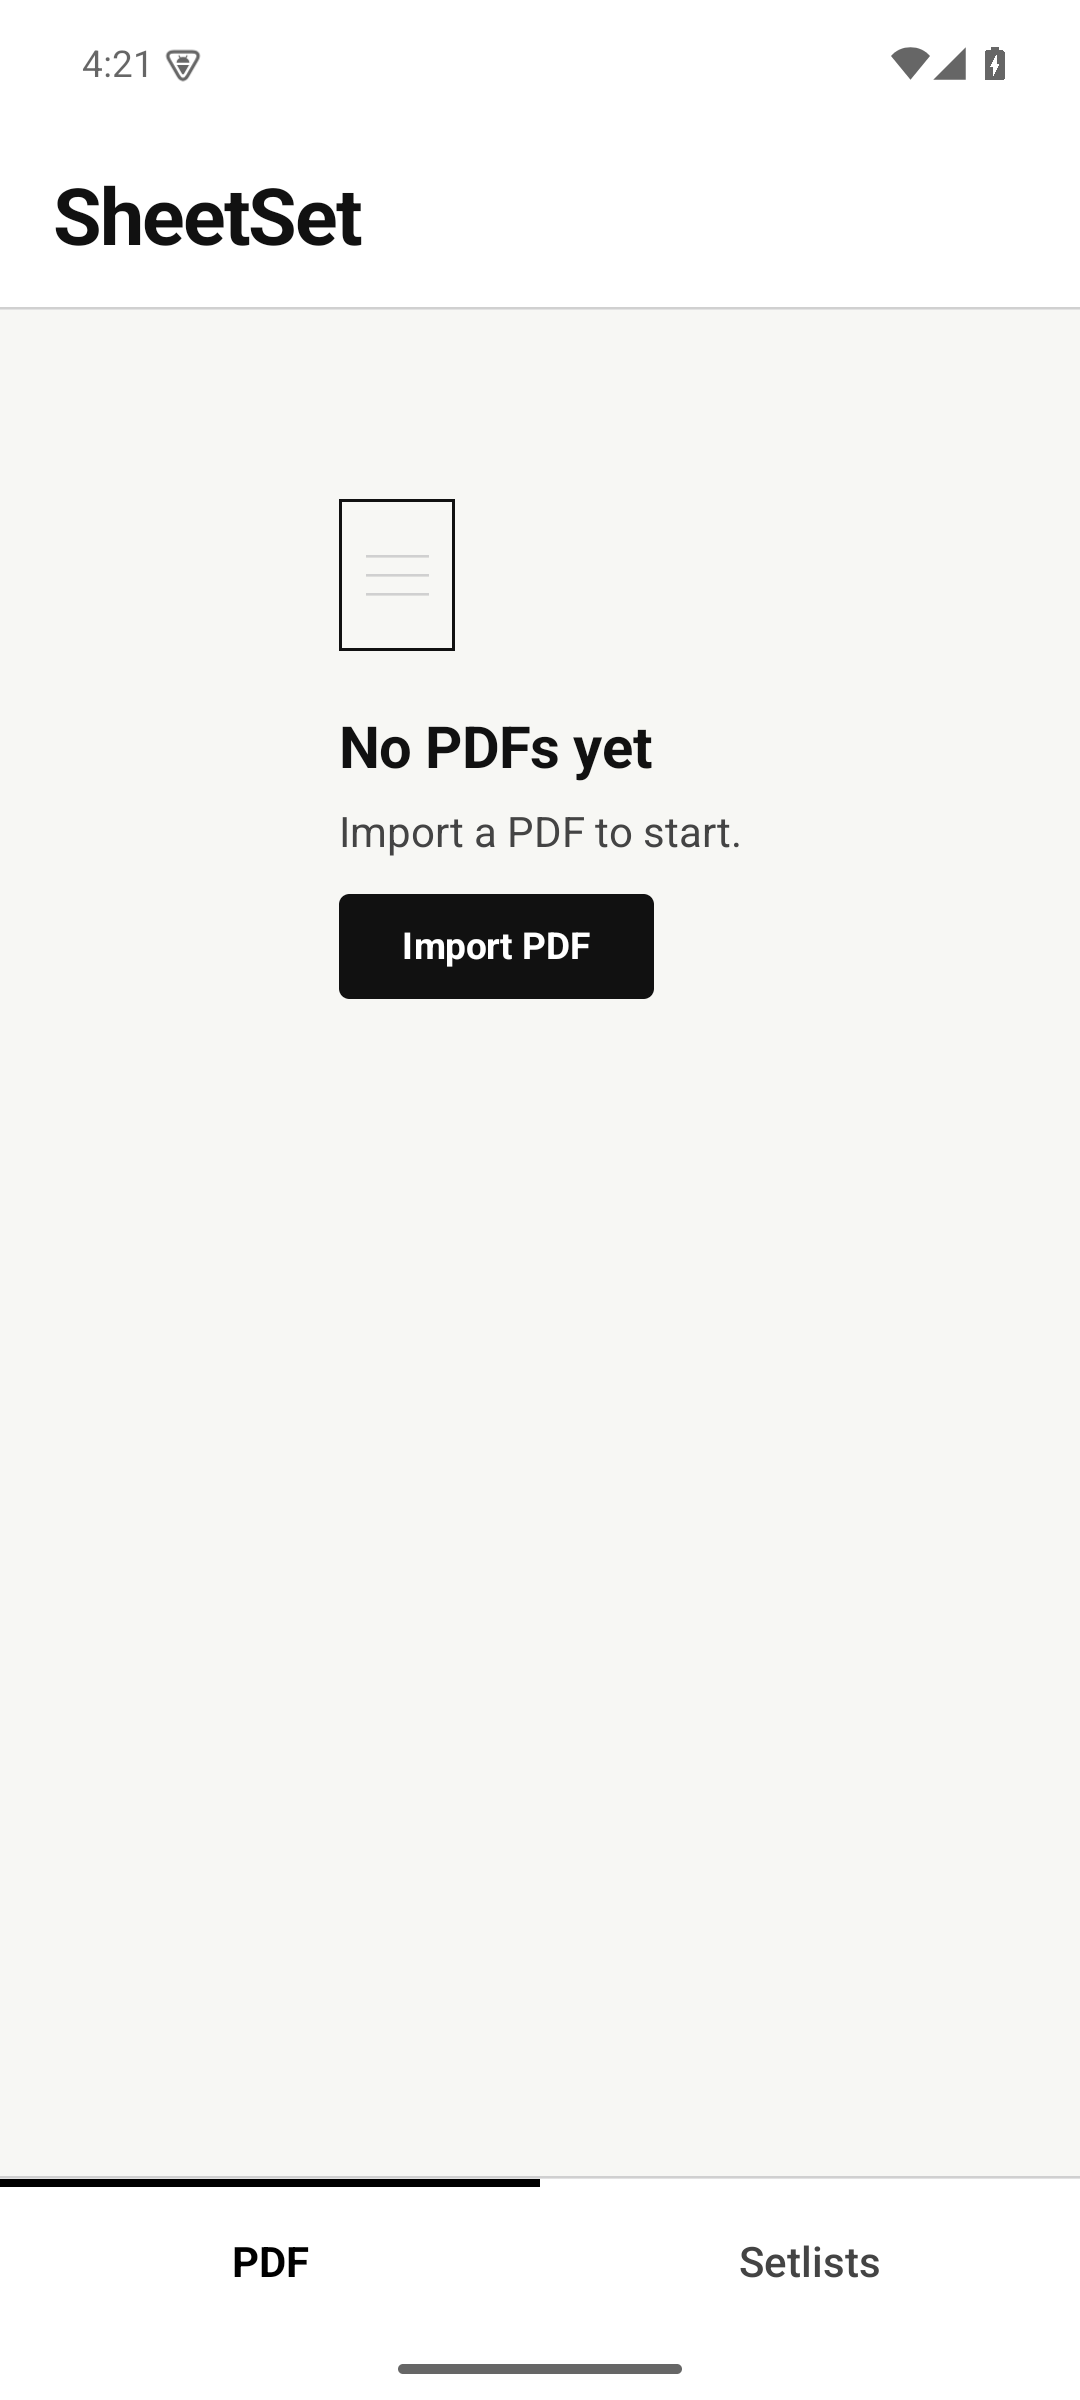
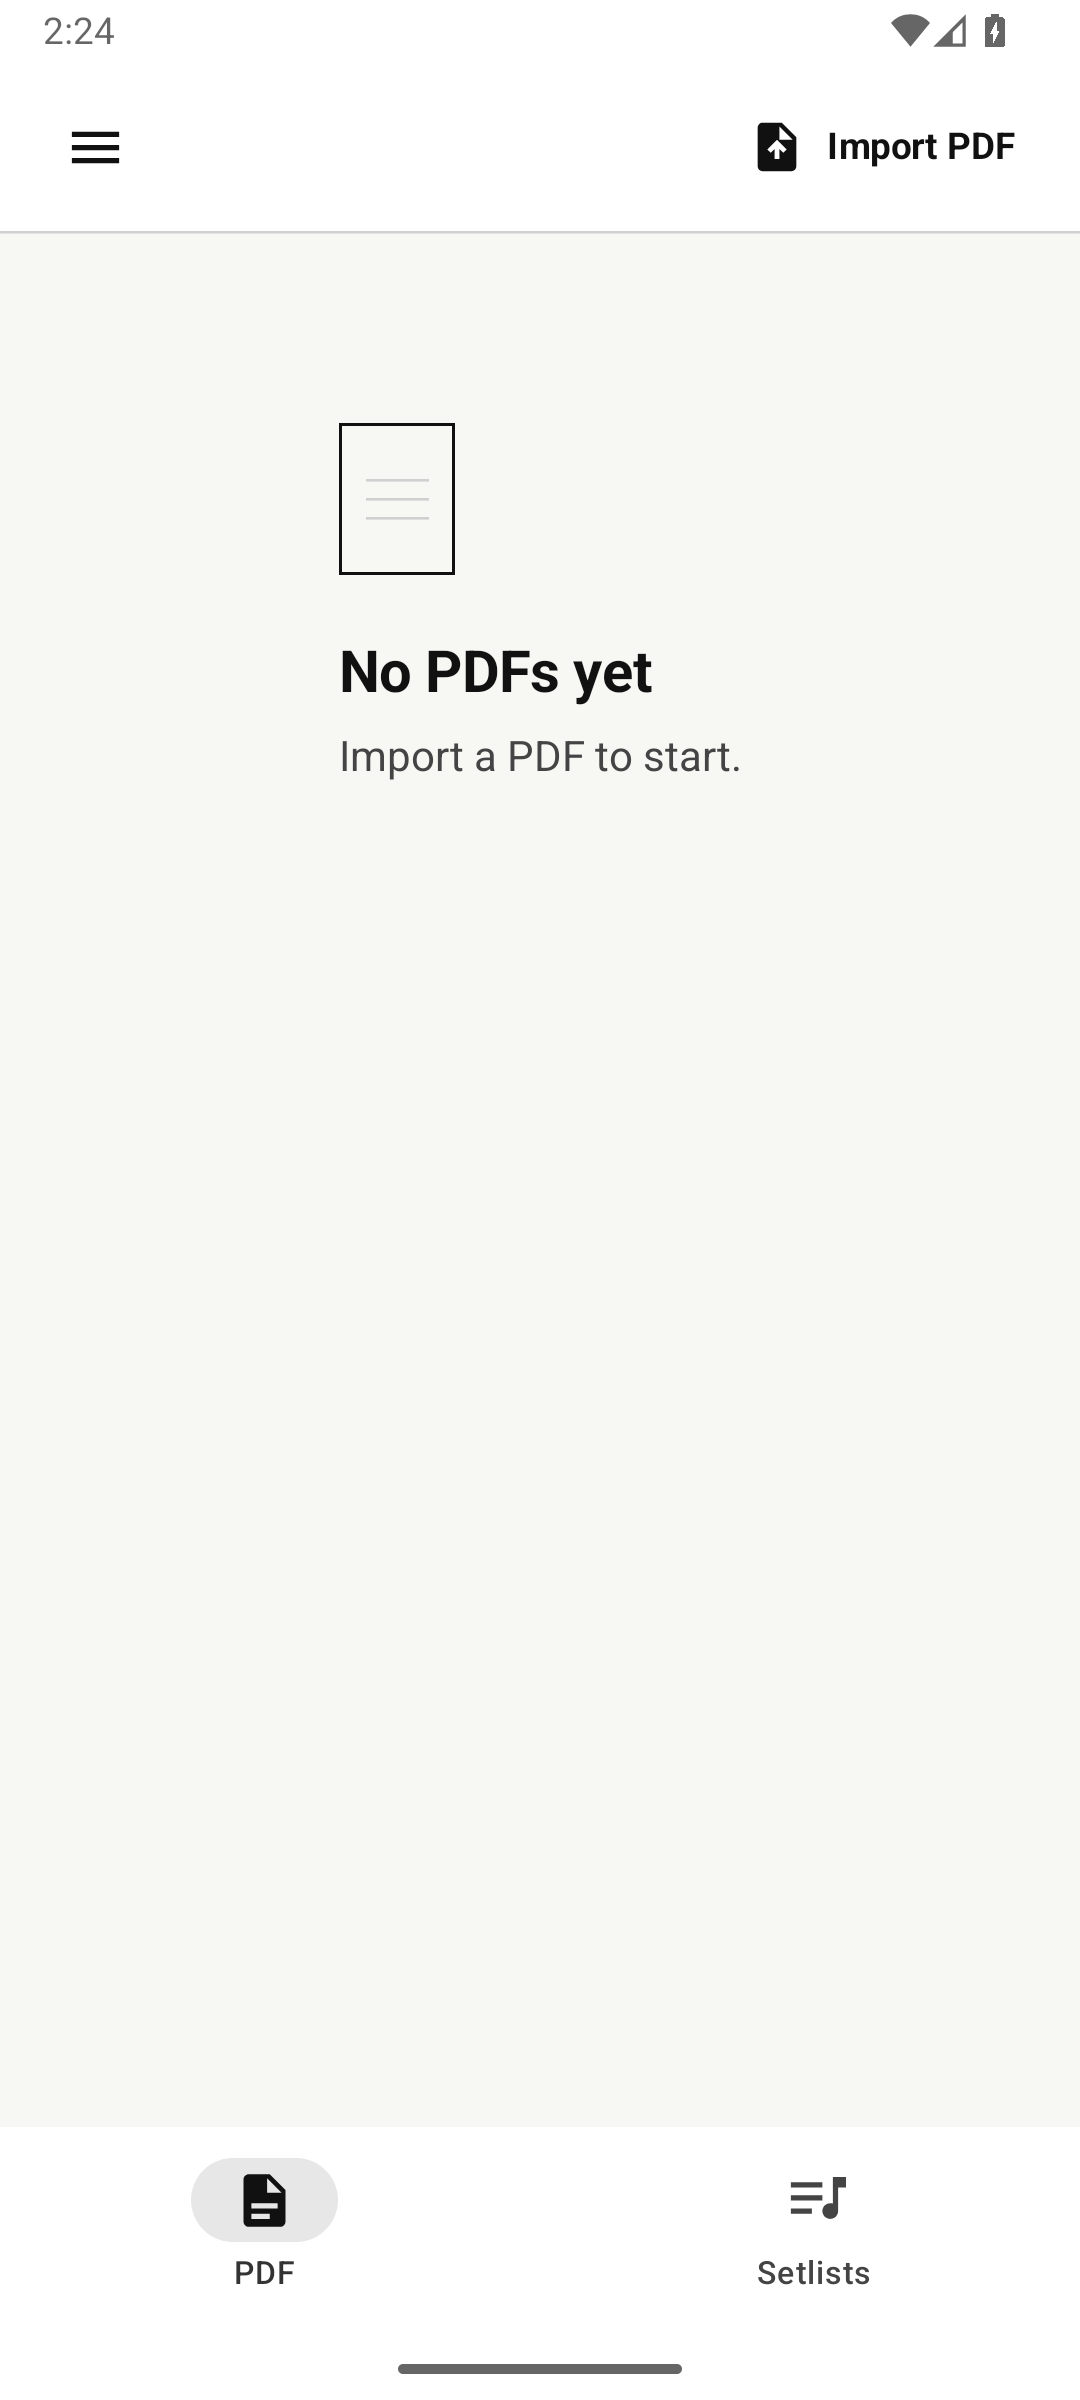
docs: prepare v0.3 preview

diff --git a/site/index.html b/site/index.html
@@ -3,7 +3,7 @@
 <head>
   <meta charset="utf-8">
   <meta name="viewport" content="width=device-width, initial-scale=1">
-  <meta name="description" content="SheetSet is an offline Android PDF organizer for musicians.">
+  <meta name="description" content="SheetSet is an offline Android 13+ PDF organizer and annotation editor for musicians.">
   <title>SheetSet - scores, setlists, annotations</title>
   <link rel="stylesheet" href="styles.css">
 </head>
@@ -27,7 +27,7 @@
           <a class="secondary" href="https://github.com/Majkey25/SheetSet">Browse source</a>
         </div>
       </div>
-      <img class="phone" src="assets/reader.png" alt="SheetSet displaying an annotated PDF page">
+      <img class="phone" src="assets/reader.png" alt="SheetSet PDF editor with pen, yellow highlight, selected rectangle, and scrollable tools">
     </section>
 
     <section id="features" class="features">
@@ -35,18 +35,28 @@
       <dl>
         <div><dt>PDF library</dt><dd>Validated offline copies, search, rename, and safe deletion.</dd></div>
         <div><dt>Unlimited setlists</dt><dd>Order scores once and read straight through the whole set.</dd></div>
-        <div><dt>Annotations</dt><dd>Pen, highlighter, eraser, undo, redo, zoom, taps, and swipes.</dd></div>
+        <div><dt>PDF editor</dt><dd>Colored pen, markup, text, shapes, selection, resize, eraser, undo, redo, and export.</dd></div>
+        <div><dt>Backup and restore</dt><dd>Validated ZIP archives with staging, path checks, and rollback-safe restore.</dd></div>
         <div><dt>Private by design</dt><dd>No permissions, server, account, tracking, or hidden upload.</dd></div>
       </dl>
     </section>
 
     <section class="proof">
-      <img class="phone" src="assets/home.png" alt="SheetSet PDF library empty state">
+      <img class="phone" src="assets/home.png" alt="SheetSet phone library with Menu and Import PDF actions">
       <div>
         <p class="eyebrow">English · Čeština · Slovenčina · Deutsch · Polski</p>
         <h2>A paper-like interface.</h2>
-        <p>White pages, black type, gray structure, two tabs. The original PDF stays untouched. Export creates a separate annotated copy.</p>
+        <p>White pages, black type, gray structure, and color only where annotations need it. The original PDF stays untouched. Export creates a separate annotated copy.</p>
       </div>
+    </section>
+
+    <section class="tablet-proof">
+      <div>
+        <p class="eyebrow">Android 13+ · phone and tablet</p>
+        <h2>Room when you have it.</h2>
+        <p>Compact screens use a scrollable bottom palette. Tablets switch to a navigation rail and expanded setlist panes.</p>
+      </div>
+      <img class="tablet" src="assets/tablet.png" alt="SheetSet tablet library with a left PDF and Setlists navigation rail">
     </section>
   </main>
 

diff --git a/site/styles.css b/site/styles.css
@@ -28,7 +28,7 @@ nav { display: flex; gap: 24px; }
 nav a { font-size: 14px; text-underline-offset: 4px; }
 
 main { overflow: hidden; }
-.hero, .proof {
+.hero, .proof, .tablet-proof {
   width: min(1180px, calc(100% - 40px));
   margin: 0 auto;
   display: grid;
@@ -57,18 +57,22 @@ dt { font-weight: 750; }
 dd { margin: 0; color: #bbb; line-height: 1.6; }
 
 .proof { min-height: 700px; padding: 90px 0; }
-.proof p:not(.eyebrow) { max-width: 600px; color: #444; font-size: 20px; line-height: 1.65; }
+.proof p:not(.eyebrow), .tablet-proof p:not(.eyebrow) { max-width: 600px; color: #444; font-size: 20px; line-height: 1.65; }
+
+.tablet-proof { min-height: 620px; padding: 90px 0; grid-template-columns: minmax(260px, 0.65fr) minmax(0, 1.35fr); }
+.tablet { display: block; width: 100%; border: 1px solid #aaa; border-radius: 8px; box-shadow: 16px 18px 0 #e7e7e7; }
 
 footer { display: flex; justify-content: space-between; gap: 24px; padding: 32px clamp(20px, 5vw, 72px); border-top: 1px solid #d7d7d7; color: #555; font-size: 14px; }
 
 @media (max-width: 760px) {
   .masthead nav a:first-child { display: none; }
-  .hero, .proof { grid-template-columns: 1fr; }
+  .hero, .proof, .tablet-proof { grid-template-columns: 1fr; }
   .hero { padding-top: 52px; }
   .phone { width: min(76vw, 320px); }
   dl div { grid-template-columns: 1fr; gap: 10px; }
   .proof { padding: 72px 0; }
   .proof .phone { order: 2; }
+  .tablet-proof { padding: 72px 0; }
   footer { flex-direction: column; }
 }
 

diff --git a/README.md b/README.md
@@ -5,10 +5,13 @@ Offline Android PDF organizer for musicians. Import scores, build unlimited setl
 [![Android CI](https://github.com/Majkey25/SheetSet/actions/workflows/android-ci.yml/badge.svg)](https://github.com/Majkey25/SheetSet/actions/workflows/android-ci.yml)
 [![Latest release](https://img.shields.io/github/v/release/Majkey25/SheetSet?include_prereleases)](https://github.com/Majkey25/SheetSet/releases)
 [![License: MIT](https://img.shields.io/badge/license-MIT-111111.svg)](LICENSE)
+![Android 13+](https://img.shields.io/badge/Android-13%2B-111111.svg)
+![Offline only](https://img.shields.io/badge/offline-only-111111.svg)
 
 <p align="center">
-  <img src="site/assets/home.png" alt="SheetSet PDF library empty state" width="280">
-  <img src="site/assets/reader.png" alt="SheetSet reader with a handwritten annotation" width="280">
+  <img src="site/assets/home.png" alt="SheetSet phone library with Menu and Import PDF actions" width="260">
+  <img src="site/assets/reader.png" alt="SheetSet phone PDF editor with pen, yellow highlight, selected rectangle, and scrollable tools" width="260">
+  <img src="site/assets/tablet.png" alt="SheetSet tablet library with a left navigation rail" width="420">
 </p>
 
 ## What it does
@@ -17,15 +20,19 @@ Offline Android PDF organizer for musicians. Import scores, build unlimited setl
 - Stores private offline copies and validates each file before adding it.
 - Creates unlimited ordered setlists without duplicating PDFs.
 - Reads a setlist continuously across score boundaries.
-- Supports pen, highlighter, eraser, undo, redo, page taps, swipes, and pinch zoom.
+- Supports colored pen, highlight, underline, strike-through, text boxes, lines, arrows, rectangles, and ellipses.
+- Selects, moves, resizes, deletes, erases, undoes, and redoes annotations.
+- Uses a horizontally scrollable phone palette, tablet tool rail, page fit, taps, swipes, pinch zoom, and two-axis panning.
 - Preserves the imported original and exports a new annotated PDF.
-- Uses Android per-app languages: English, Czech, Slovak, German, and Polish.
+- Backs up and safely restores PDFs, setlists, annotations, settings, and language in a validated ZIP.
+- Uses English, Czech, Slovak, German, Polish, or the Android device language.
+- Offers Scan with ScanIt from the import sheet and opens its Google Play listing.
 
 ## Install
 
 Download the preview APK from [GitHub Releases](https://github.com/Majkey25/SheetSet/releases). Preview builds are debug-signed and intended for testing. Google Play publishing is not part of this repository yet.
 
-SheetSet requires Android 8.0 or newer.
+SheetSet requires Android 13 or newer.
 
 ## Build
 
@@ -44,18 +51,21 @@ adb install -r app\build\outputs\apk\debug\app-debug.apk
 
 ## Design
 
-SheetSet uses one Android application module, Jetpack Compose, and platform PDF APIs. `LibraryRepository` stores PDFs and an atomic JSON catalog. `PdfPageView` renders and annotates pages. `PdfExporter` writes an annotated copy one page at a time.
+SheetSet uses one Android application module, Jetpack Compose, and platform PDF APIs. `LibraryRepository` stores PDFs and an atomic JSON catalog. Versioned typed annotations migrate old pen and highlighter data. `PdfPageView` and `PdfExporter` share one renderer so the on-screen page matches the non-destructive exported copy. Restore validates the complete ZIP in staging before an atomic directory swap with rollback.
 
 The app declares no permissions. Imported files stay in app-private storage. Export writes only to the location selected in the Android document picker.
 
 ## Current limits
 
 - Android only.
-- PDF text and vector objects are not edited. Annotations are a separate layer.
+- PDF text and vector objects are not edited. Annotations are a separate layer drawn by touch.
+- Highlight, underline, and strike-through use manual drag bounds. Scanned PDFs have no OCR.
 - Export rasterizes source pages at up to 144 dpi with a 12 MP memory cap.
-- No cloud sync, backup, scanner, metronome, or Bluetooth pedal settings.
+- Backup restore accepts archives up to 1 GiB. There is no cloud sync.
+- Scanning is delegated to the separate ScanIt app; SheetSet has no built-in camera scanner.
+- No metronome or Bluetooth pedal settings yet.
 
-See the [design specification](docs/superpowers/specs/2026-08-20-sheetset-design.md) and [implementation plan](docs/superpowers/plans/2026-08-20-sheetset.md).
+See the [adaptive editor specification](docs/superpowers/specs/2026-08-20-sheetset-editor-settings-adaptive-design.md) and [PDF editor plan](docs/superpowers/plans/2026-08-20-sheetset-pdf-editor.md).
 
 ## Contributing
 

diff --git a/CHANGELOG.md b/CHANGELOG.md
@@ -1,5 +1,29 @@
 # Changelog
 
+## [0.3.0-alpha.1] - 2026-08-22
+
+### Added
+
+- Hamburger menu with reader, annotation, language, backup, restore, and about settings.
+- English, Czech, Slovak, German, Polish, and device-language selection.
+- Tablet navigation rail and expanded setlist list-detail layout.
+- Colored pen, highlight, underline, strike-through, text box, line, arrow, rectangle, and ellipse annotations.
+- Selection, move, resize, delete, eraser, undo, redo, pinch zoom, and horizontal panning.
+- Versioned ZIP backup and validated rollback-safe restore for PDFs, setlists, annotations, settings, and language.
+- Optional ScanIt handoff from the PDF import sheet.
+
+### Changed
+
+- Android 13 is now the minimum supported version.
+- Reader tools use a horizontally scrollable phone palette and a vertical tablet palette.
+- Import and Create remain visible as contextual actions in the upper-right corner.
+
+### Fixed
+
+- Version 1 pen and highlighter annotations migrate without data loss.
+- Replaced text glyph controls with accessible vector icons.
+- Hidden drawer destinations no longer leak into screen-reader semantics.
+
 ## [0.2.0-alpha.1] - 2026-08-20
 
 ### Changed
